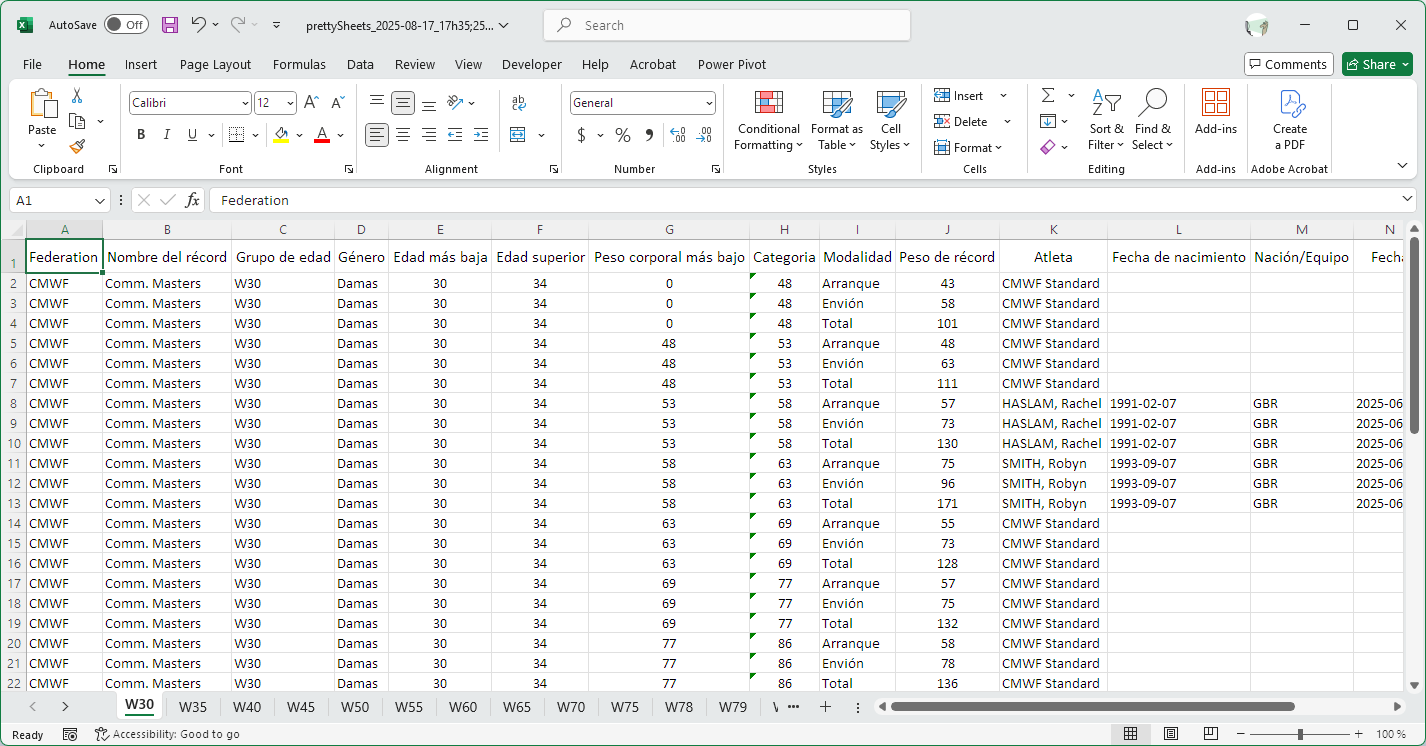
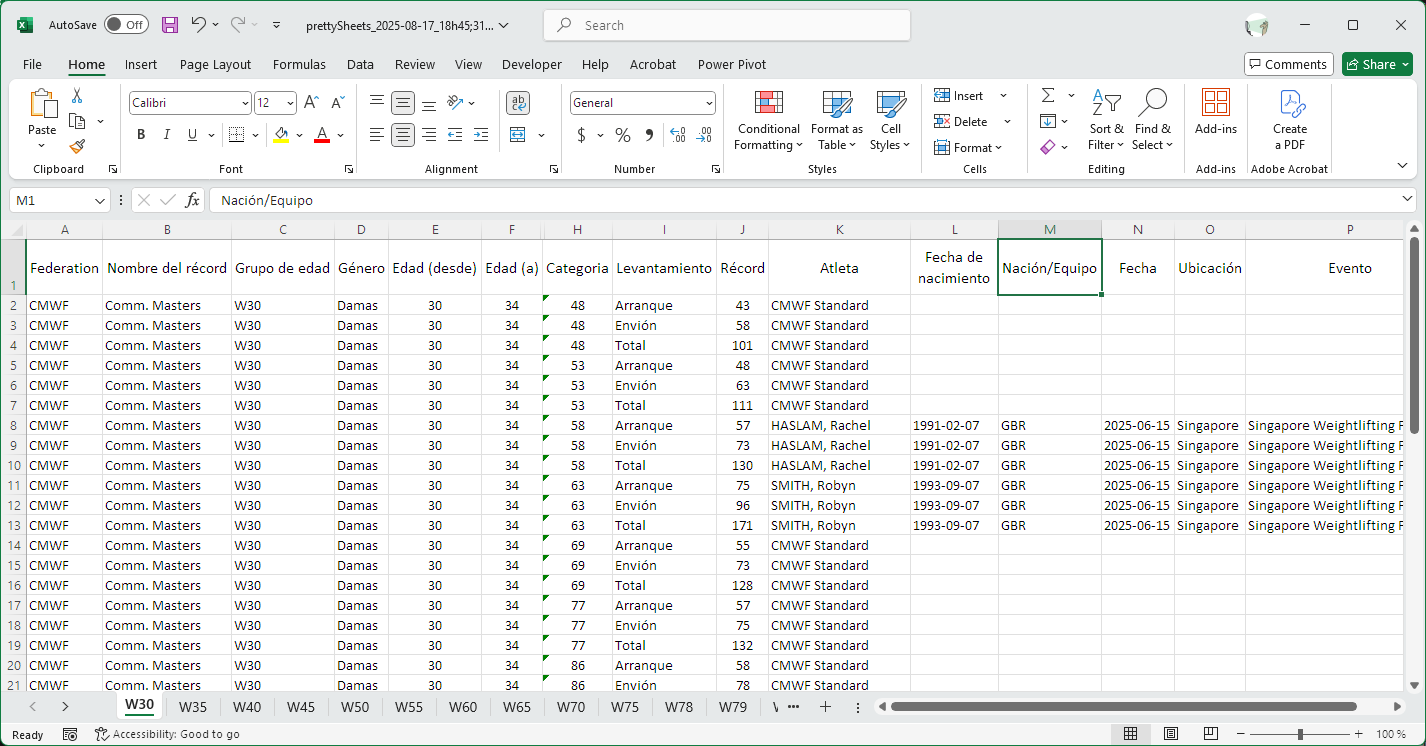
fixed alpha documentation and translations

diff --git a/docs/2500RecordsManagement.md b/docs/2500RecordsManagement.md
@@ -83,17 +83,19 @@ You can then export the selected information in Excel format.
 - prettyGroups removes some of the redundant columns, and translates the header row
 - prettySheets is one sheet per age group.  Perfect for import to Google Sheets and embedding in a Web Site
 
-For example, if you are in Spanish, and use the prettySheets format, you would get -- you can take that format as a basis and remove the columns you don't want.
+For example, if you are in Spanish, and use the prettySheets format, you would get something like the following.  You can customize the templates and create your own, remove columns, etc.
 
-![90](../../../OneDrive/Documents/ShareX/Screenshots/2025-08/B0.png)
+![](nimg/2501_Records_New/B0.png)
 
 
 
 ## Editing Records
 
-If you keep the information in owlcms, and get news of a new record set in another country that meets your requirements, you can actually edit a record.  Just click and edit.  You should later export it in an importable format.
+You can actually keep you records in owlcms, and edit them there prior to publishing.  You would create a full "importFormat" copy for archival, and to reload later, and you would use a pretty format for your Web site or PDF
 
-![A0](../../../OneDrive/Documents/ShareX/Screenshots/2025-08/A0.png)
+If you get news of a new record set in another country that meets your requirements, you can actually edit a record.  Just click and edit.  You should later export it in an importable format.
+
+![A0](nimg/2501_Records_New/A0.png)
 
 ## Record File Format
 
